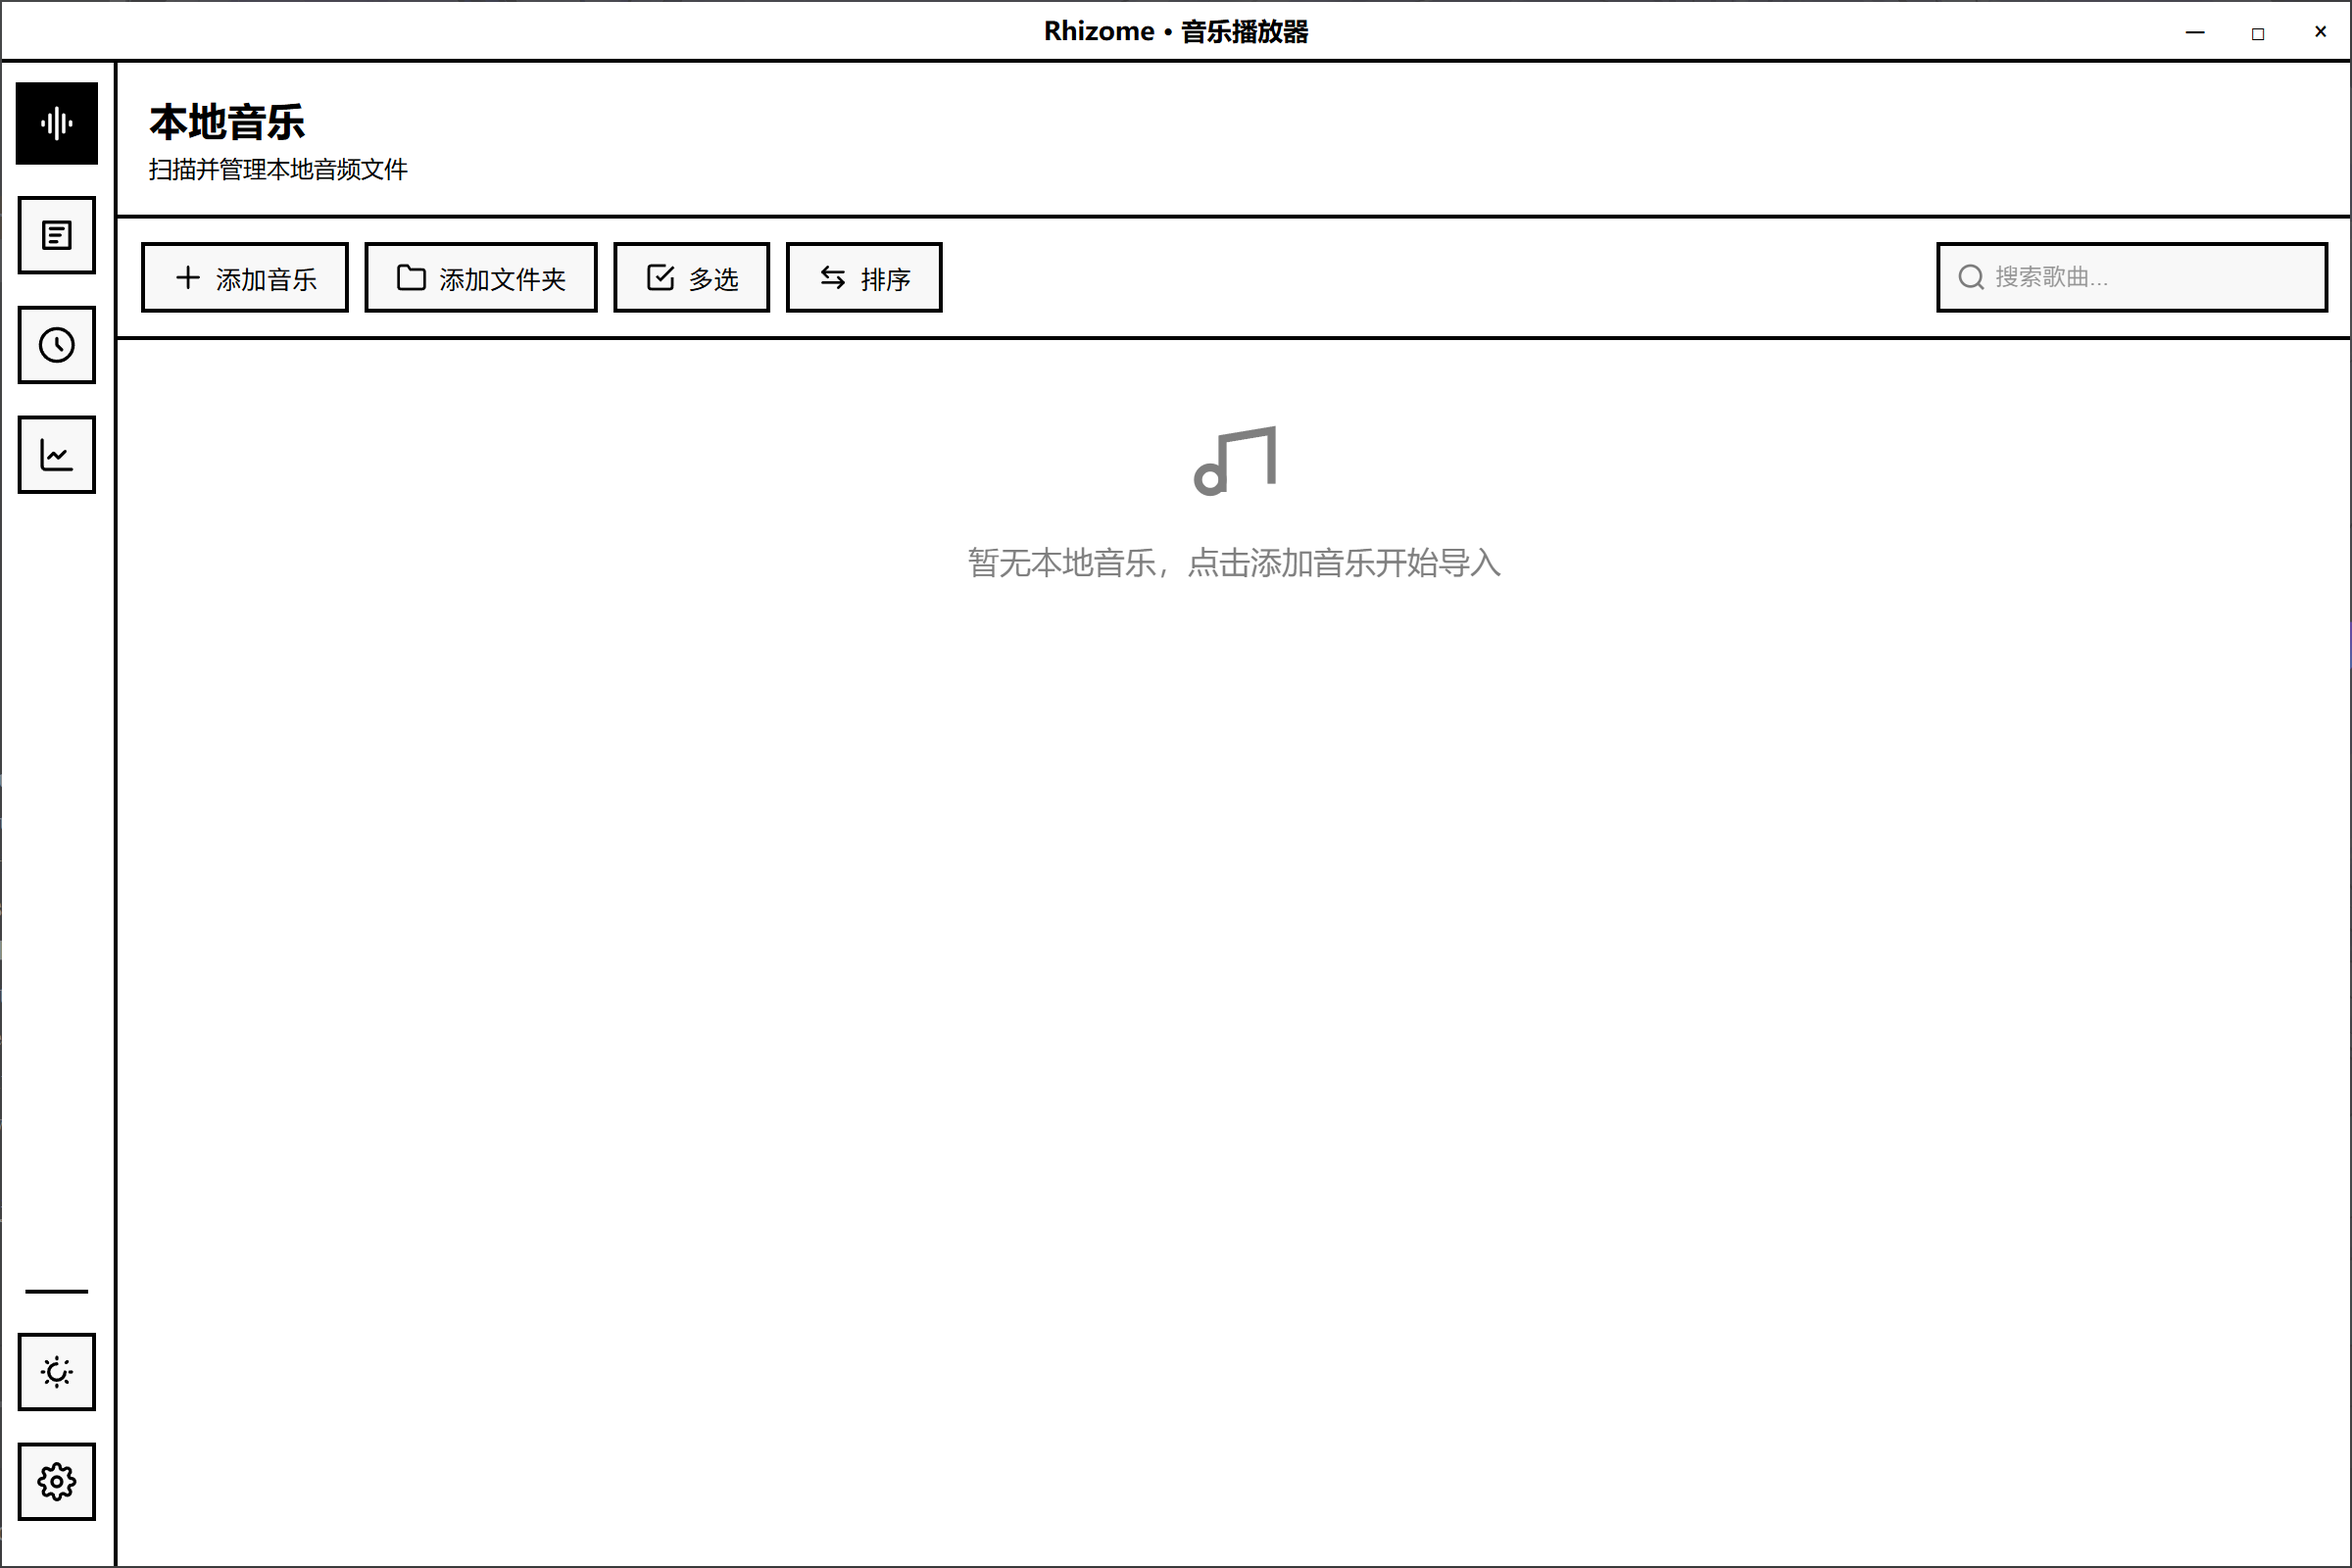
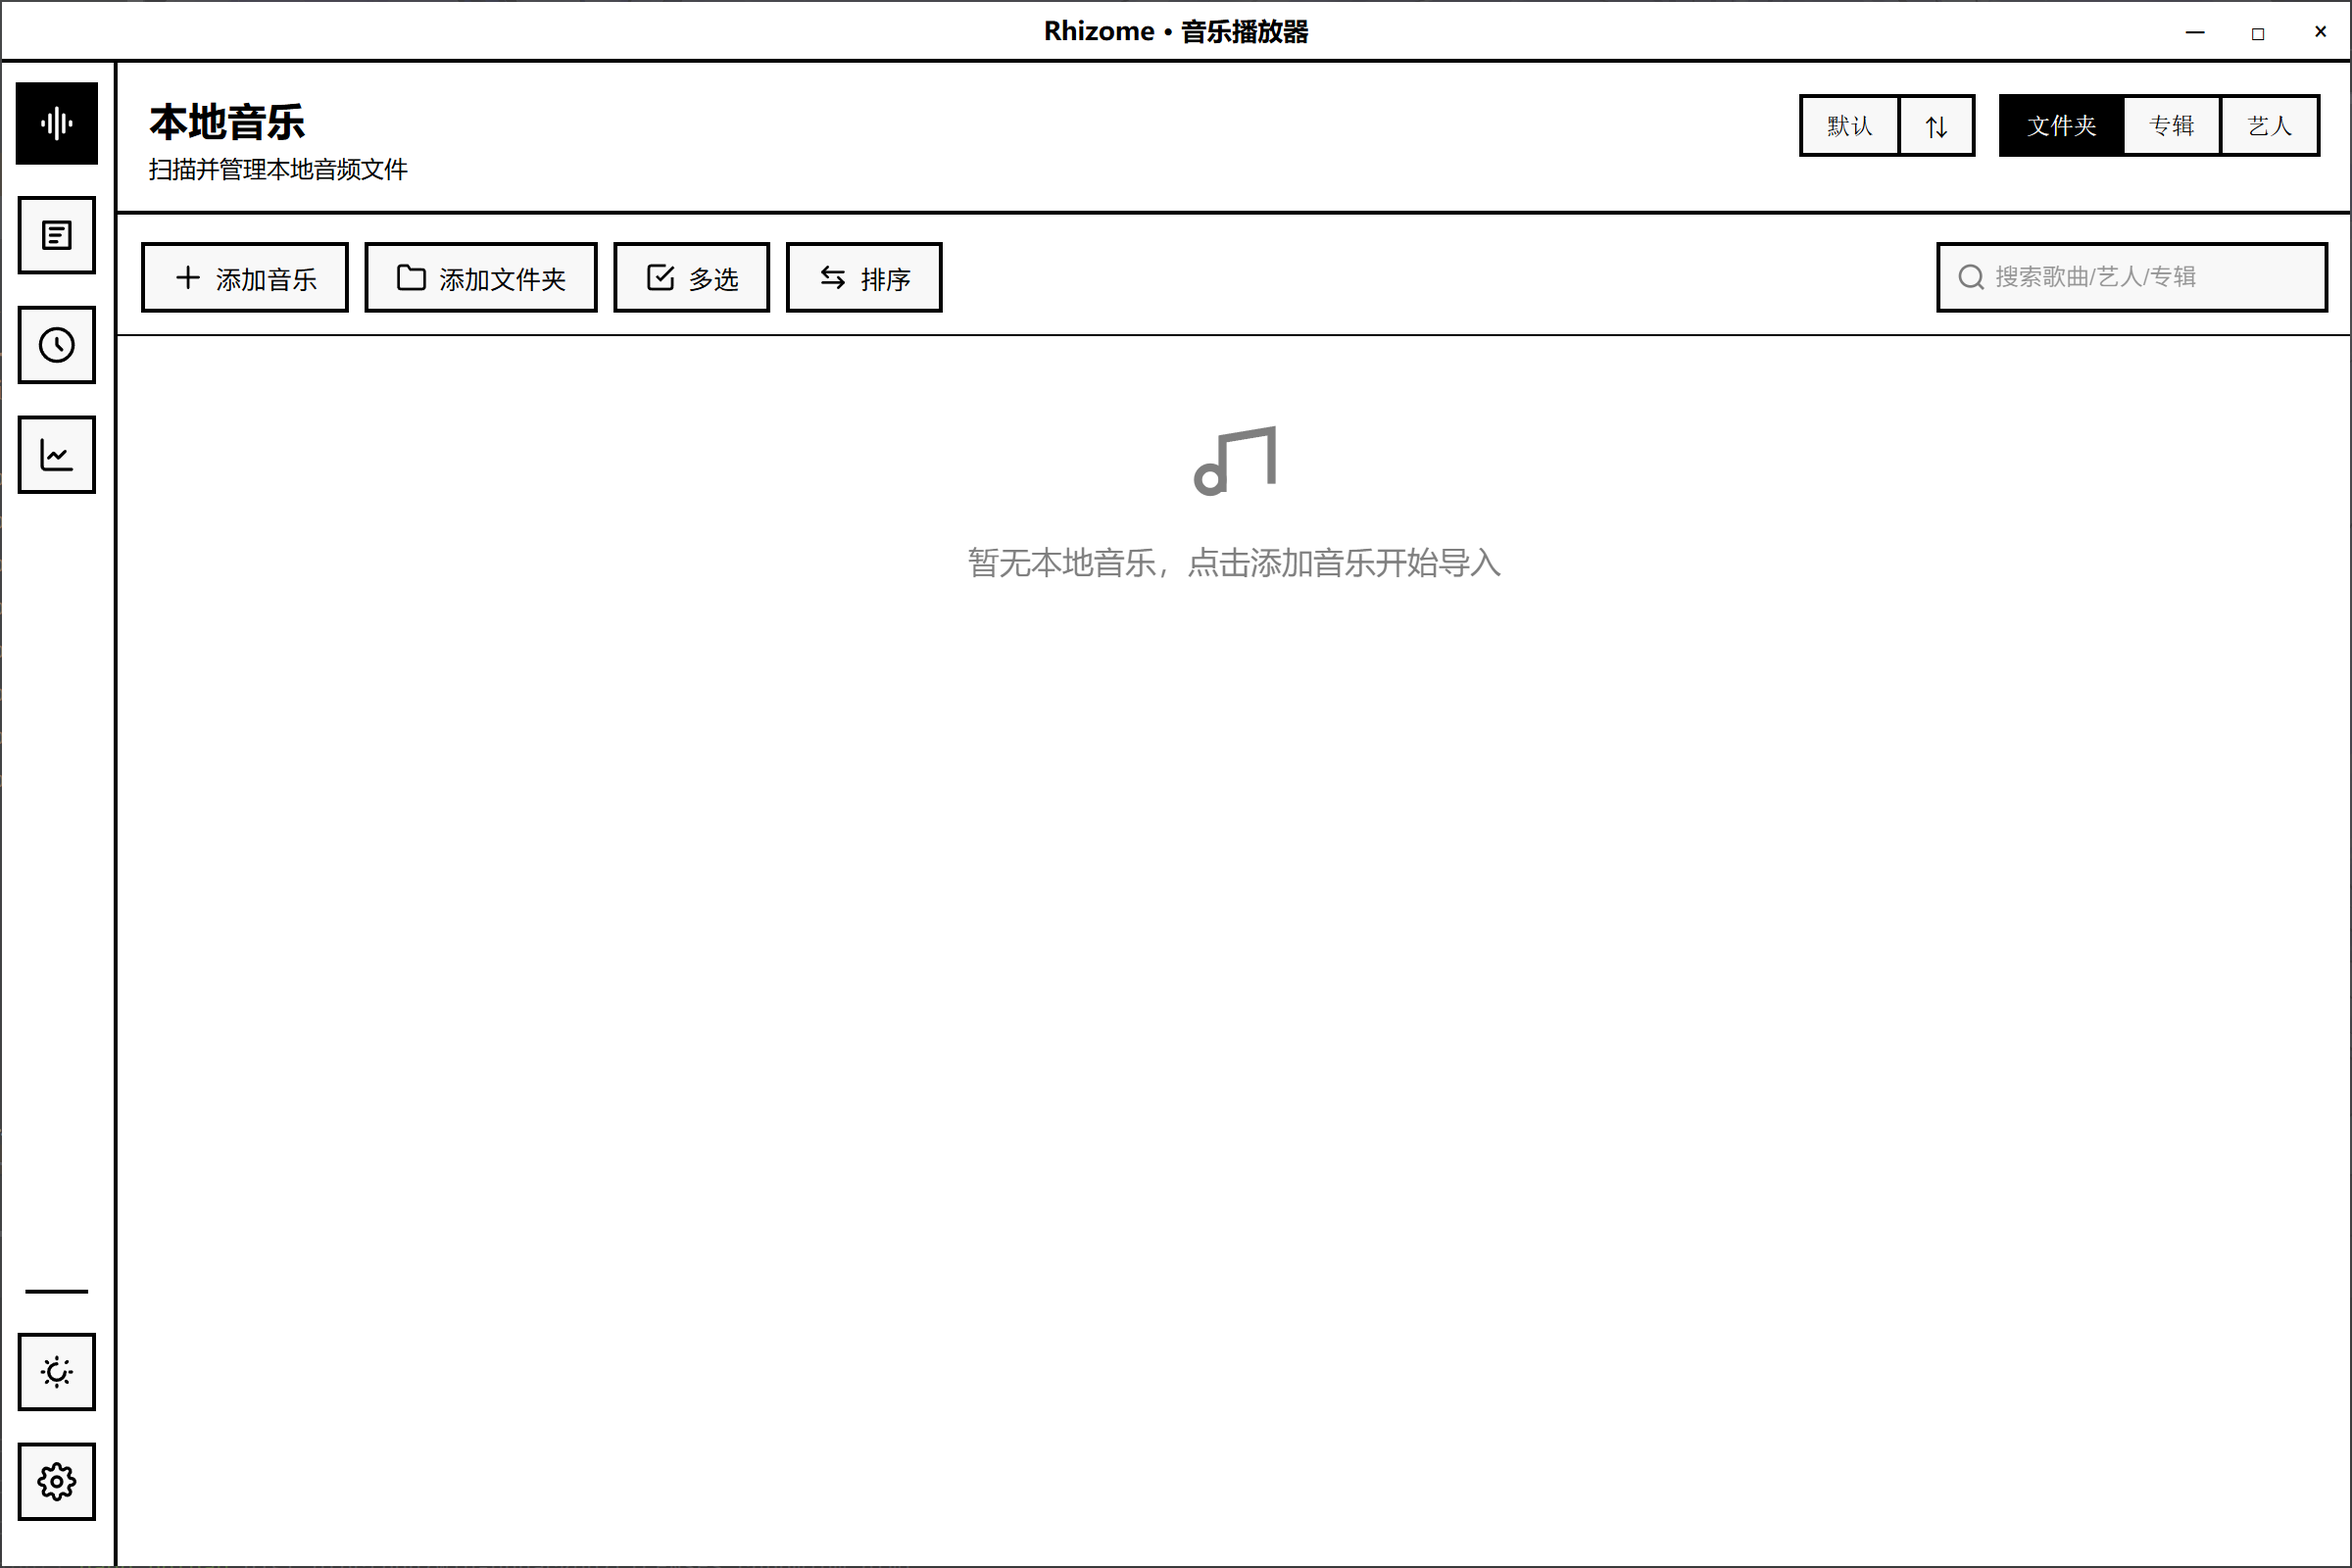
docs: 重写 README 并更新预览图（对齐 1.0.9）
- 预览区改用 1~4.png 四张新截图
- 功能列表补齐 1.0.82 之后的新增项：主题（暗色 / 亮色）、
  动画方案（经典 / 华丽）、全屏频谱页、UI 互动音效、调试日志开关
- 播放模式明确为五种（列表 / 列表循环 / 单曲循环 / 单曲 / 随机）
- 开发命令补充 npm test / clean / clean:app
- 技术栈表加入版本列；目录结构按当前代码更新（electron/lib、频谱组件、
  utils、constants、assets/css）

Changed region(s): [[0.0625, 0.0625, 1.0, 0.2188]]

diff --git a/README.md b/README.md
@@ -2,10 +2,13 @@
 
 简约的本地音乐播放器 · Vue 3 + Electron
 
-## 预览
+![预览 1](public/1.png)
 
-![暗色主题](public/1.png)
-![亮色主题](public/2.png)
+![预览 2](public/2.png)
+
+![预览 3](public/3.png)
+
+![预览 4](public/4.png)
 
 ## 功能
 
@@ -13,7 +16,7 @@
 - 本地音频管理（MP3 / FLAC / WAV）
 - 文件夹导入 & 批量扫描
 - 封面提取
-- 频谱可视化
+- 频谱可视化（播放栏实时频谱 + 全屏频谱页）
 - AB 循环播放
 
 ### 歌词
@@ -26,7 +29,7 @@
 - `Ctrl+'` 全局切换桌面歌词
 
 ### 播放
-- 列表 / 循环 / 单曲 / 随机（Fisher-Yates 伪随机不重复）
+- 五种播放模式：列表 / 列表循环 / 单曲循环 / 单曲 / 随机（Fisher-Yates 伪随机不重复）
 - 进度条拖拽 & 滚轮微调 & AB 循环右键设点
 - Media Session 系统控件集成
 - 音频设备路由（热切换 & 热插拔检测）
@@ -34,7 +37,7 @@
 ### 歌单
 - 自定义歌单（创建 / 编辑 / 排序 / 多选操作）
 - 「我喜欢」固定歌单，全局心形按钮一键收藏
-- 智能歌单（每周自动生成「本周最爱」+「每周发现」，保留最近 4 期）
+- 智能歌单（每周 / 每月 / 每年自动生成「最爱」+「发现」）
 - 歌单内拖拽排序 & 数字序号排序
 - 删除确认（次数可配 1/2/3，按钮脉冲反馈）
 
@@ -50,9 +53,11 @@
 - 数据备份与恢复（含歌单、历史、播放记录、偏好设置）
 
 ### 界面
-- 暗色 / 亮色主题
-- Sdorica 风格启动动画（锁链、星环、符文、多层光环）
-- 设置页选项卡布局（系统选项 / 快捷键 / 动作链）
+- 主题：暗色 / 亮色可切换，启动即恢复上次选择
+- 动画方案：「经典」/「华丽」两套可切换（华丽为更慢的动效节奏与更繁复的装饰）
+- 全屏频谱页 — 封面模糊背景 + 左右竖直柱频谱 + 当前一句歌词，进入/退出走几何重构转场
+- Rhizome 风格启动动画（锁链、星环、符文、多层光环）
+- 设置页选项卡布局（系统选项 / 外观 / 快捷键 / 动作链）
 - 全页面精密组装入场动效 & 列表项 stagger 交错延迟
 - 当前播放歌曲反色高亮 & 缺失文件灰色标记
 - 拖拽排序 spring 弹性反馈
@@ -64,13 +69,18 @@
 - 屏保（空闲自动触发，时间可配 1-60min，复刻启动动画）
 - 开机自启
 - 系统托盘增强控制（播放/暂停/上下曲/歌词开关）
+- UI 互动音效（点击 / 连点递进 / 快捷键 / 光标悬停 / 长按提示）
+- 调试日志开关（默认关闭，排查问题时可在设置页开启）
 
 ## 开发
 
 ```bash
 npm install          # 安装依赖
 npm run electron:dev # 启动开发（Vite + Electron）
-npm run build        # 生产构建
+npm run build        # 生产构建（Vite + electron-builder，输出 dist_electron）
+npm test             # 运行测试（vitest）
+npm run clean        # 清理构建产物与 Vite 缓存
+npm run clean:app    # 清理应用数据（%APPDATA%\Rhizome）
 ```
 
 ## 快捷键
@@ -89,74 +99,58 @@ npm run build        # 生产构建
 
 ## 技术栈
 
-| 层 | 技术 |
-|---|---|
-| 前端 | Vue 3 (Composition API) / Pinia / Vue Router |
-| 桌面 | Electron |
-| 音频 | music-metadata |
-| 构建 | Vite / electron-builder |
+| 层 | 技术 | 版本 |
+|---|---|---|
+| 桌面运行时 | Electron | 41 |
+| 前端框架 | Vue（Composition API） | 3.5 |
+| 构建 | Vite | 8 |
+| 状态 | Pinia | 3 |
+| 路由 | Vue Router | 4 |
+| UI 组件 | Element Plus | 2.x |
+| 音频元数据 | music-metadata | 11 |
+| 测试 | vitest + happy-dom | 5 / 20 |
+| 打包 | electron-builder | 24 |
 
 ## 结构
 
 ```
 rhizome/
-├── electron/                # 主进程 & preload
-│   ├── main.js              # 窗口管理 / IPC / 托盘 / 全局快捷键
-│   ├── preload.js           # 音频解析、文件 IO、备份恢复
-│   └── preload-lyrics.js    # 歌词窗口桥接
-├── src/                     # 渲染进程
+├── electron/                     # 主进程 & preload
+│   ├── main.js                   # 窗口管理 / IPC / 托盘 / 全局快捷键
+│   ├── preload.js                # 音频解析、文件 IO、备份恢复
+│   ├── preload-lyrics.js         # 歌词窗口桥接
+│   └── lib/
+│       ├── lrc.cjs               # LRC 解析纯函数
+│       └── logger.cjs            # 运行时文件日志（默认关闭）
+├── src/                          # 渲染进程
 │   ├── components/
-│   │   ├── common/          # FavoriteButton / AboutModal / SelectModal
-│   │   ├── lyrics/          # DesktopLyrics
-│   │   ├── player/          # GlobalPlayer / ProgressBar / VolumeControl
-│   │   └── splash/          # SplashOverlay（屏保动画）
+│   │   ├── common/               # FavoriteButton / AboutModal / SelectModal
+│   │   ├── lyrics/               # DesktopLyrics
+│   │   ├── player/               # GlobalPlayer / ProgressBar / VolumeControl
+│   │   │                         # SpectrumOverlay（频谱页）/ SpectrumTransition
+│   │   └── splash/               # SplashOverlay（屏保动画）
 │   ├── views/
-│   │   ├── MainLayout.vue   # 主布局
-│   │   └── player/          # 页面组件
+│   │   ├── MainLayout.vue        # 主布局
+│   │   └── player/               # 页面组件
 │   │       ├── LocalMusic.vue    # 本地音乐
 │   │       ├── MyPlaylist.vue    # 歌单列表
 │   │       ├── PlaylistDetail.vue# 歌单详情
+│   │       ├── AlbumDetail.vue   # 专辑 / 艺人详情
 │   │       ├── PlayHistory.vue   # 播放历史
 │   │       ├── PlayStats.vue     # 听歌统计
-│   │       ├── SongDetail.vue    # 歌曲详情
+│   │       ├── SongDetail.vue    # 歌曲详情（含频谱页）
 │   │       ├── MusicTimeline.vue # 音乐时间线
 │   │       ├── DiaryPage.vue     # 听歌日记
 │   │       └── SettingsPage.vue  # 设置
-│   ├── stores/              # Pinia（playerStore / localMusicStore / playlistStore）
-│   ├── composables/         # 可复用逻辑
-│   │   ├── useGlobalTheme.js     # 主题切换
-│   │   ├── useShortcuts.js       # 快捷键
-│   │   ├── useSpectrumEngine.js  # 频谱
-│   │   ├── useEqualizer.js       # 均衡器
-│   │   ├── useAudioDevice.js     # 音频设备
-│   │   ├── useReportGenerator.js # 报告生成
-│   │   ├── useFavorites.js       # 收藏
-│   │   ├── useWeeklyPlaylists.js # 智能歌单
-│   │   ├── useActionChain.js     # 动作链
-│   │   ├── useSongList.js        # 排序/多选/拖拽
-│   │   ├── usePageEnter.js       # 入场动效
-│   │   ├── useDeleteConfirm.js   # 删除确认
-│   │   ├── useLyricOffset.js     # 歌词延迟
-│   │   ├── useIdleTimeout.js     # 屏保定时状态
-│   │   ├── useIdle.js            # 空闲检测
-│   │   ├── useCurrentSongHighlight.js # 当前曲目高亮
-│   │   └── useColorExtractor.js  # 封面取色
-│   ├── assets/
-│   │   └── css/
-│   │       ├── global-theme.css  # 主题变量 & 全局动效
-│   │       ├── global.css        # 全局样式
-│   │       └── reset.css         # 样式重置
-│   ├── utils/               # 工具函数
-│   │   ├── format.js             # 时间格式化
-│   │   ├── song-factory.js       # 歌曲对象构造
-│   │   └── lyrics.js             # 歌词解析
-│   ├── constants/           # 常量
-│   │   ├── storage-keys.js       # localStorage 键
-│   │   └── defaults.js           # 默认配置
+│   ├── stores/                   # Pinia（playerStore / localMusicStore / playlistStore）
+│   ├── composables/              # 可复用逻辑（主题 / 动画方案 / 播放 / 歌词 / 频谱 / 歌单 / 报告 …）
+│   ├── utils/                    # 纯函数（format / lyrics / song-factory / sort / report / play-count / auto-playlists）
+│   ├── constants/                # 常量（storage-keys / defaults / themes / motion-schemes）
+│   ├── assets/css/               # 全局样式（global-theme / motion-tokens / reset / global）
 │   └── router/
-├── public/
-├── index.html               # 入口（含启动动画）
-├── desktop-lyrics.html      # 桌面歌词窗口入口
+├── public/                       # 静态资源（含启动动画音效与预览图）
+├── index.html                    # 入口（含启动动画）
+├── desktop-lyrics.html           # 桌面歌词窗口入口
 └── package.json
 ```
 
